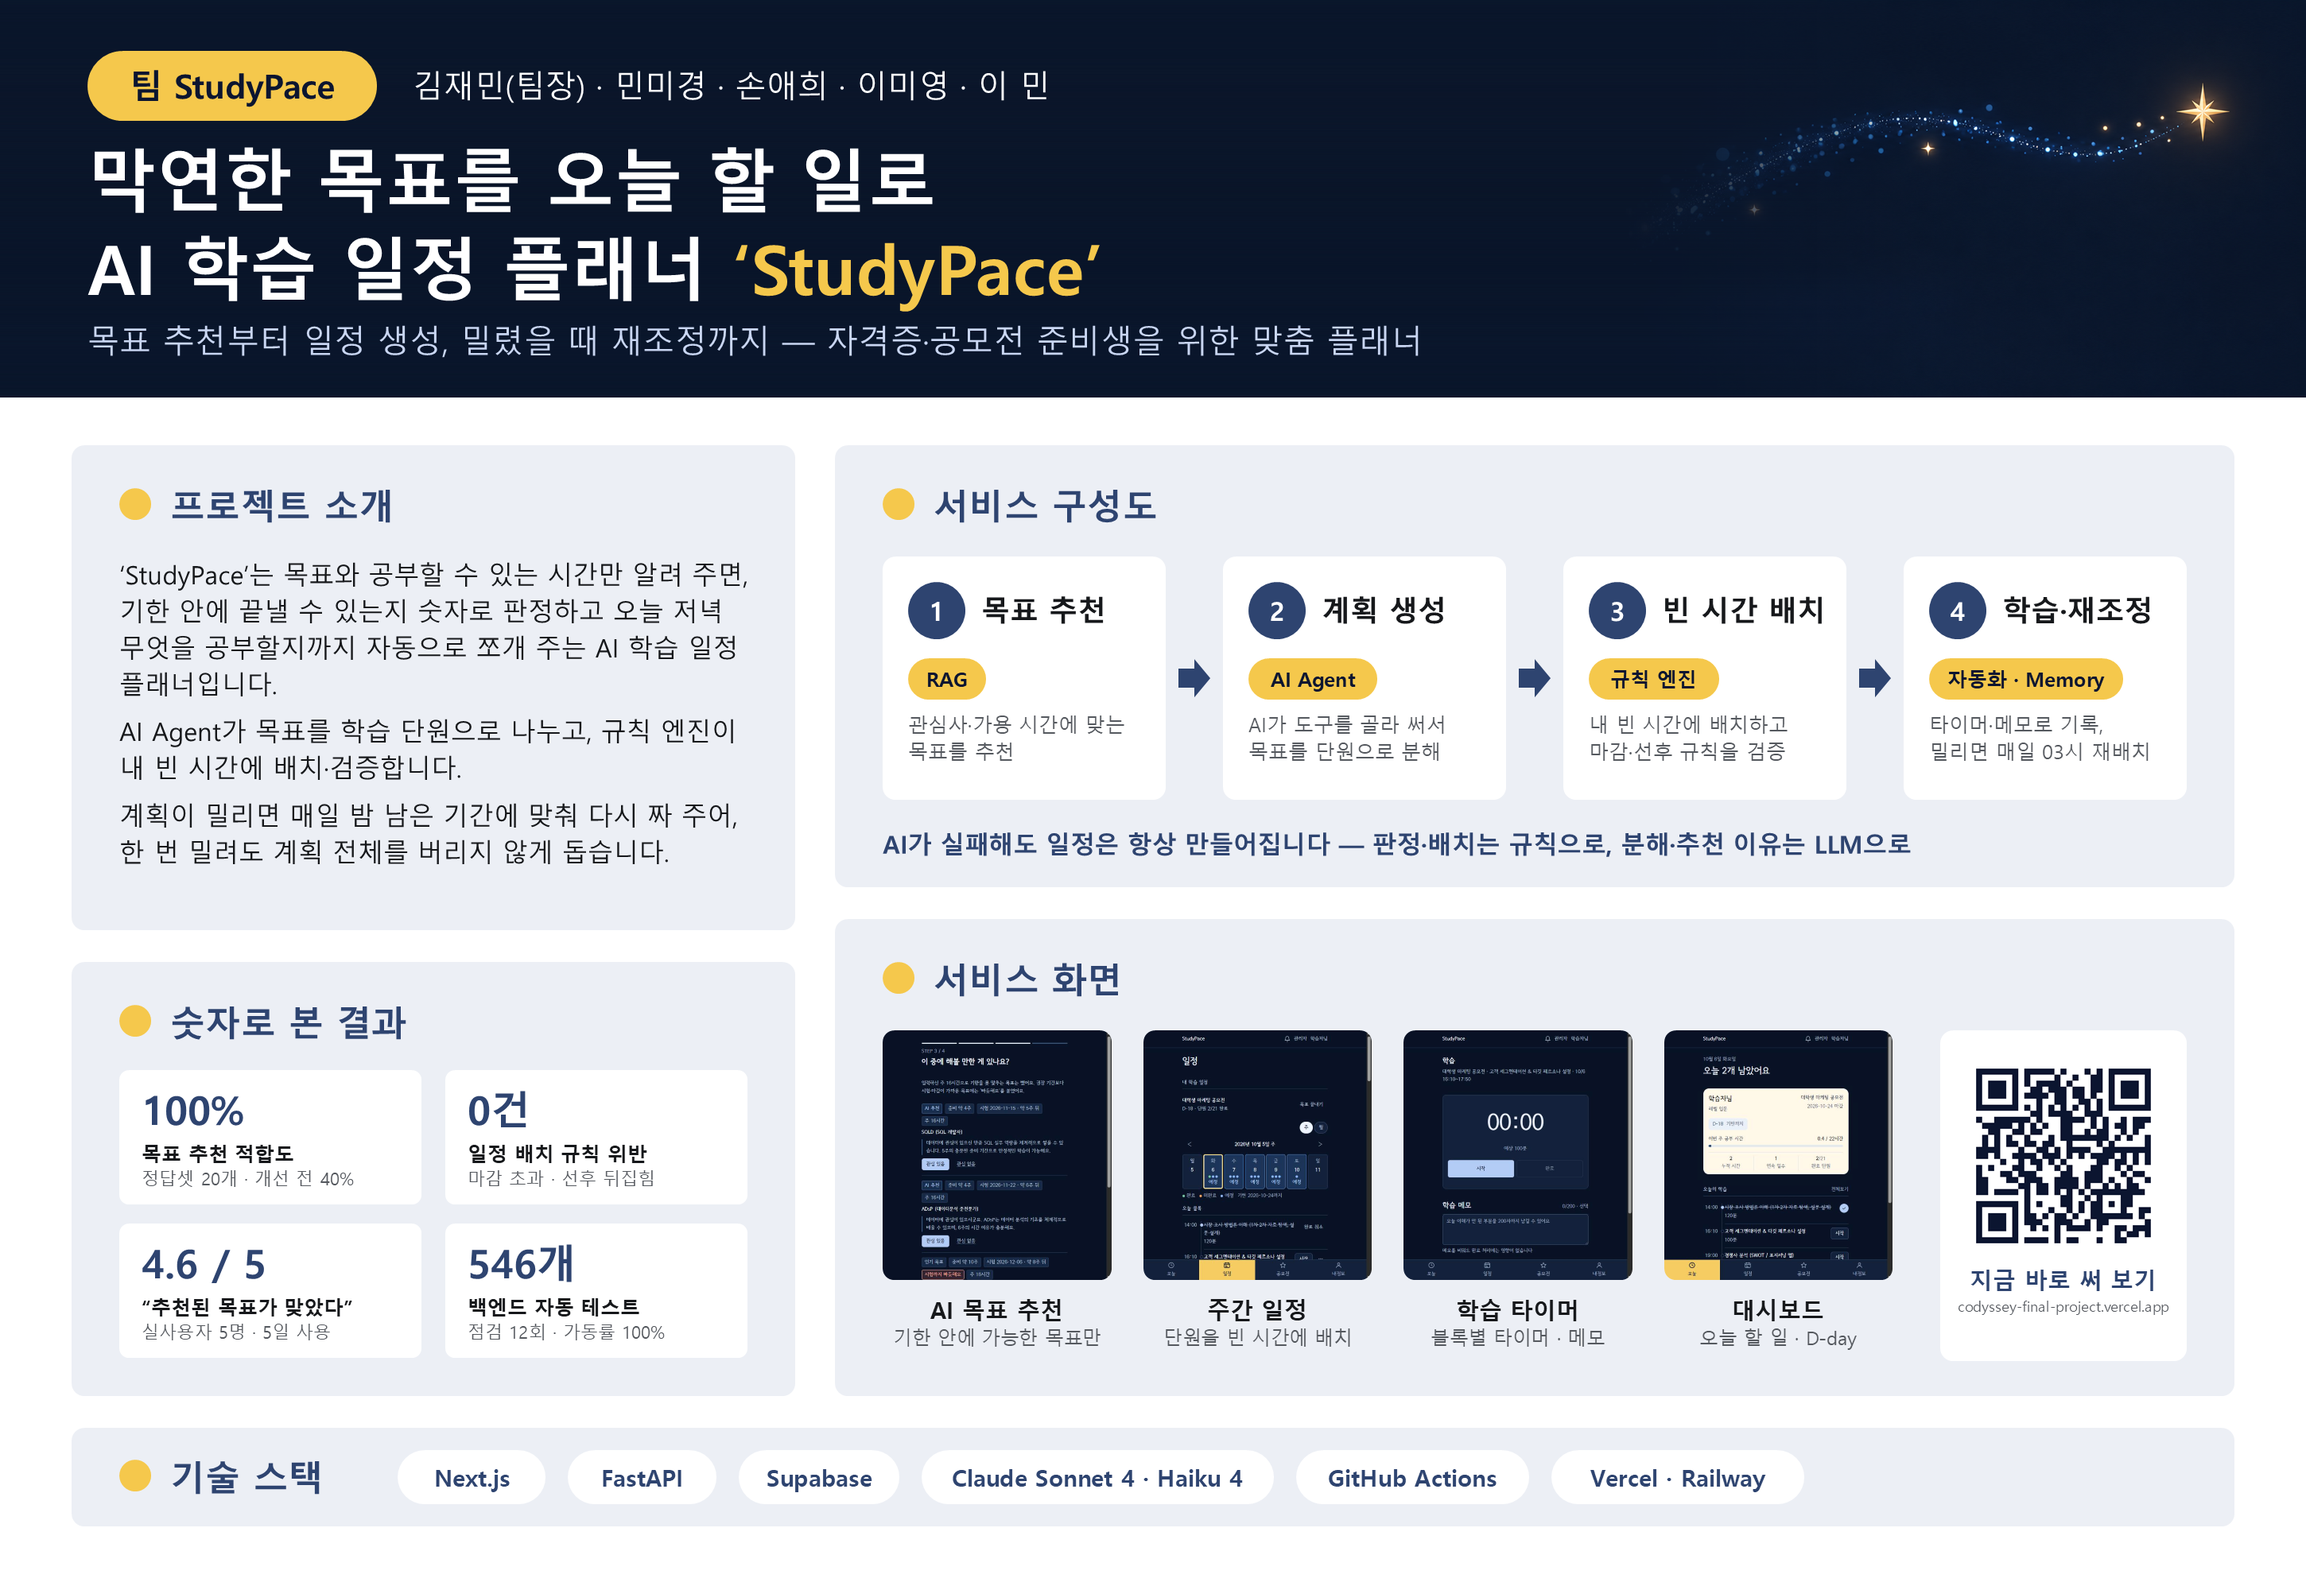
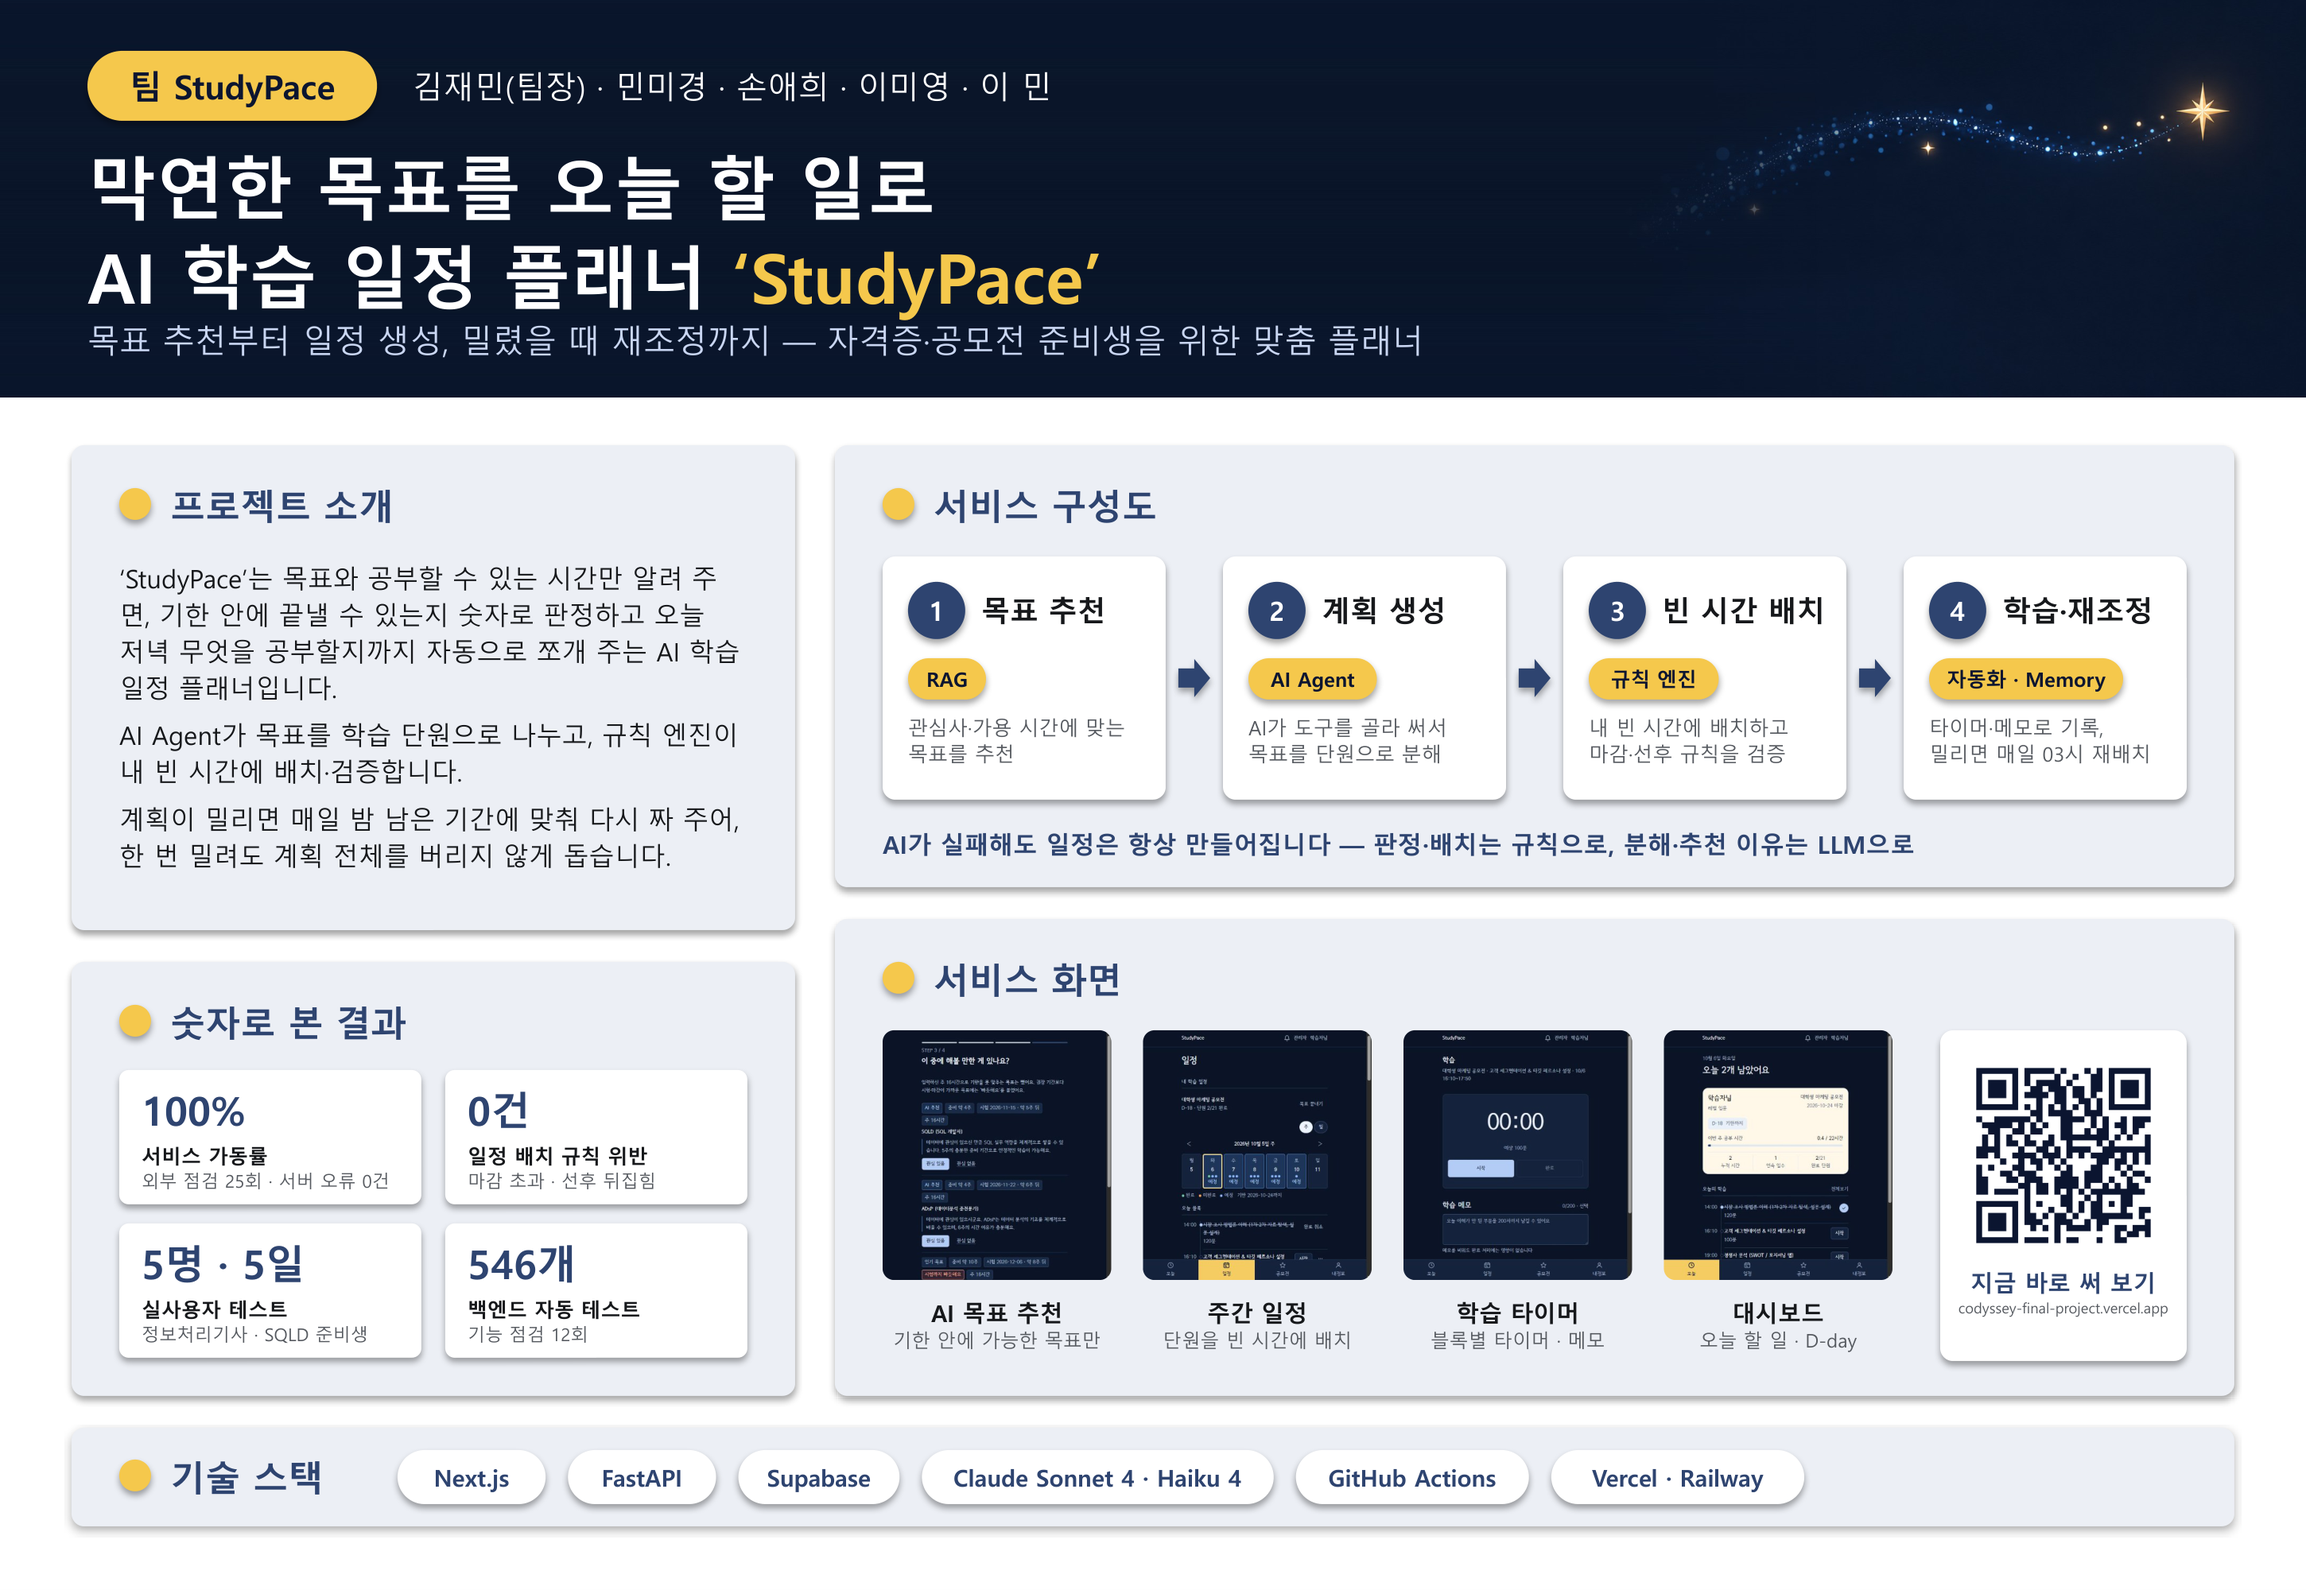
docs: 전시 부스 인포그래픽 — 애매한 수치(목표 추천 적합도 · 설문 4.6점) 빼고 가동률 · 실사용자 5명 5일로 교체

diff --git a/docs/전시부스/제출_안내.md b/docs/전시부스/제출_안내.md
@@ -45,6 +45,7 @@
 - **서비스 화면 캡처 해상도** — `docs/screens` 의 화면은 660 × 721 px 이다. 구성안 크기(약 145 mm 폭)로 출력하면 115 dpi 정도로, 대형 출력물로는 쓸 수 있지만 가까이서 보면 선명하지 않다. 더 선명하게 하려면 배포 주소에서 같은 화면을 2~3배 배율로 다시 찍어 `images/` 의 같은 이름 파일을 바꾸면 된다 (Chrome 개발자 도구 › 기기 툴바 › DPR 3 › 「스크린샷 캡처」).
 - **헤더 배경** — 서비스 표지 그림(`frontend/public/learning-path-blue.png`)의 오른쪽을 잘라 합성했다. 원본도 `images/` 에 함께 넣었다.
 - **글꼴** — 구성안은 어느 PC 에서나 같게 보이도록 `맑은 고딕`을 썼다. 서비스 화면의 글꼴은 서울남산체(`frontend/app/fonts/`)이며, 디자인 시안에 쓰고 싶다면 이 글꼴 파일을 함께 보낸다.
-- **수치의 근거** — 목표 추천 적합도 40% → 100% · 규칙 위반 0건: `backend/evals/RESULTS.md` / 실사용자 4.6점: `docs/user-test/리포트.md` / 가동률 100%: `docs/ops-report.md` / 테스트 546개 · 점검 12회: `README.md`.
+- **수치의 근거** — 가동률 100% · 외부 점검 25회 · 서버 오류 0건: `docs/ops-report.md` / 일정 배치 규칙 위반 0건: `backend/evals/RESULTS.md`(일정 실현 가능성) / 실사용자 5명 · 5일: `docs/user-test/리포트.md` / 테스트 546개 · 점검 12회: `README.md`.
+- **뺀 수치 (11-15)** — 목표 추천 적합도 100%(직접 만든 정답셋 20개 기준)와 설문 4.6점("추천된 목표가 맞았다")은 보는 사람에게 기준이 애매하게 읽혀 인포그래픽에서 뺐다. 리포트 · 평가 문서에는 그대로 있다.
 - **QR** — https://codyssey-final-project.vercel.app 로 연결된다 (판독 확인함). 행사 당일까지 배포가 살아 있어야 한다.
 - 운영사무국은 디자인만 지원하고 문구는 고쳐 주지 않는다. 시안 확인 뒤 발주하면 수정할 수 없으므로 **오탈자는 제출 전과 시안 확인 때 팀이 직접 본다.**
